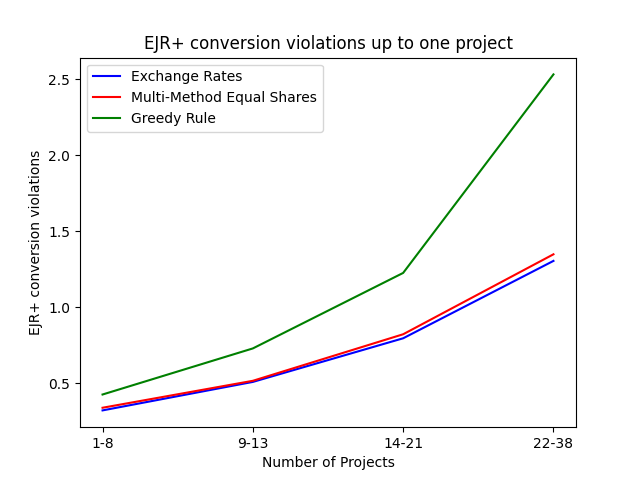
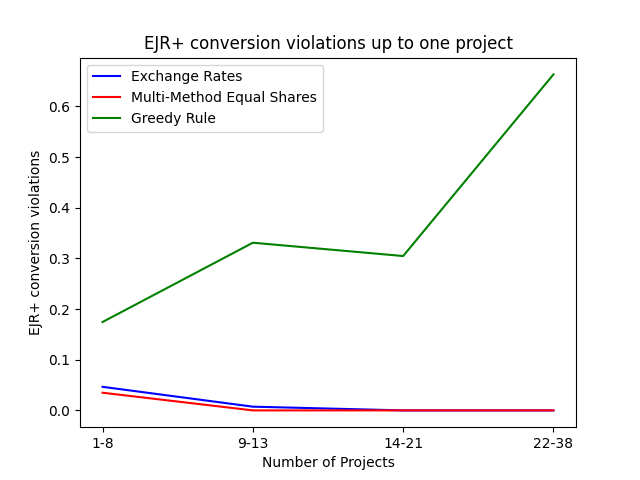
Fixed issue with EJR+

diff --git a/environment/parser.py b/environment/parser.py
@@ -45,8 +45,10 @@ def parse(path, num_resources=1, random_budget=False):
             for i in projects:
                 # Select a random number between 0 and 1. Split the cost between the two resources. (c*a,c*(1-a))
                 cost = float(projects[i]['cost'])
-                cost_split = np.random.dirichlet(np.ones(num_resources), size=1) # Generate some random numbers summing to one
-                project_list.append(Mproject(i,np.array([cost*x for x in cost_split[0]])))
+                #cost_split = np.random.dirichlet(np.ones(num_resources), size=1) # Generate some random numbers summing to one
+                #project_list.append(Mproject(i,np.array([cost*x for x in cost_split[0]])))
+                cost_split = np.random.uniform(0,1) # Generate some random numbers summing to one
+                project_list.append(Mproject(i,np.array([cost_split*cost, cost*(1-cost_split)])))
             instance = Minstance(project_list, budget_split, name=path)
 
     ballots = []

diff --git a/environment/main.py b/environment/main.py
@@ -49,15 +49,11 @@ def main(loc, seed, test):
 def batch_run(loc, seed):
     rand.seed(seed)
 
-    data = find_data('./environment')
-
-    ejr_plus_conversion_violations(data, './environment/plots', True, True, True)
-
     t1 = time()
     #run_test_projects(runtime_test, './environment/datasets_under_30', './environment/plots', False)
     #run_test_projects(exclusion_test, './environment/datasets_under_30', './environment/plots', False)
     #run_test_projects(ejrplus_conversion_test, './environment/datasets_under_30', './environment/plots', False)
-    #run_test_projects(ejrplusc_up_to_one, './environment/datasets_under_30', './environment/plots', False)
+    run_test_projects(ejrplusc_up_to_one, './environment/datasets_under_30', './environment/plots', True, True)
     t2 = time()
 
     print("Done")
